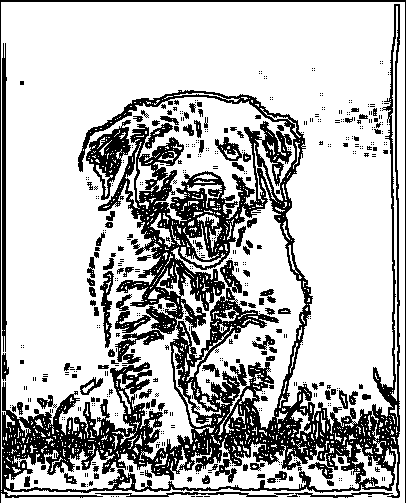
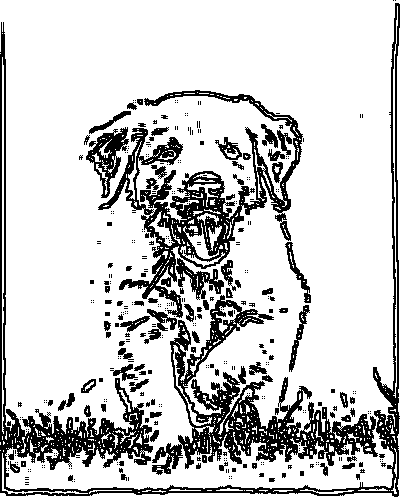
Edge data updated, fixed with newest C++ apgorithm. Changed from which file cpu read images. (./demo.txt)

diff --git a/spec/VP/cpu.cpp b/spec/VP/cpu.cpp
@@ -16,7 +16,7 @@ cpu::cpu(sc_module_name name) : sc_module(name)
 void cpu::scanFromFile()
 {
     ifstream inFile;
-    inFile.open("/home/donnico/FTN/edge_detection/spec/VP/VPtest.txt");
+    inFile.open("/home/donnico/FTN/edge_detection/spec/VP/demo.txt");
     SCimg1D inputArrayTmp;
     SC_pixel_value_type tempPixelValue;
     int i = 0;
